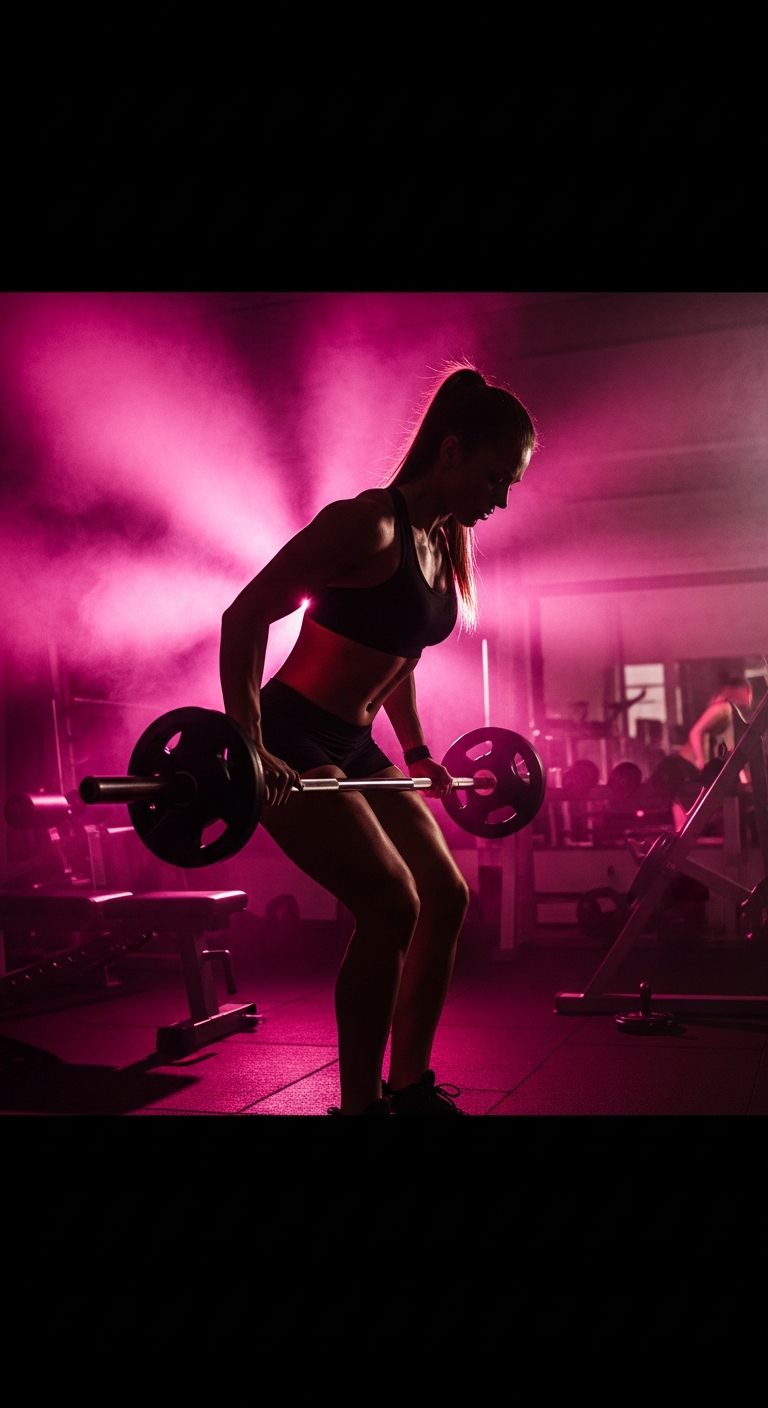
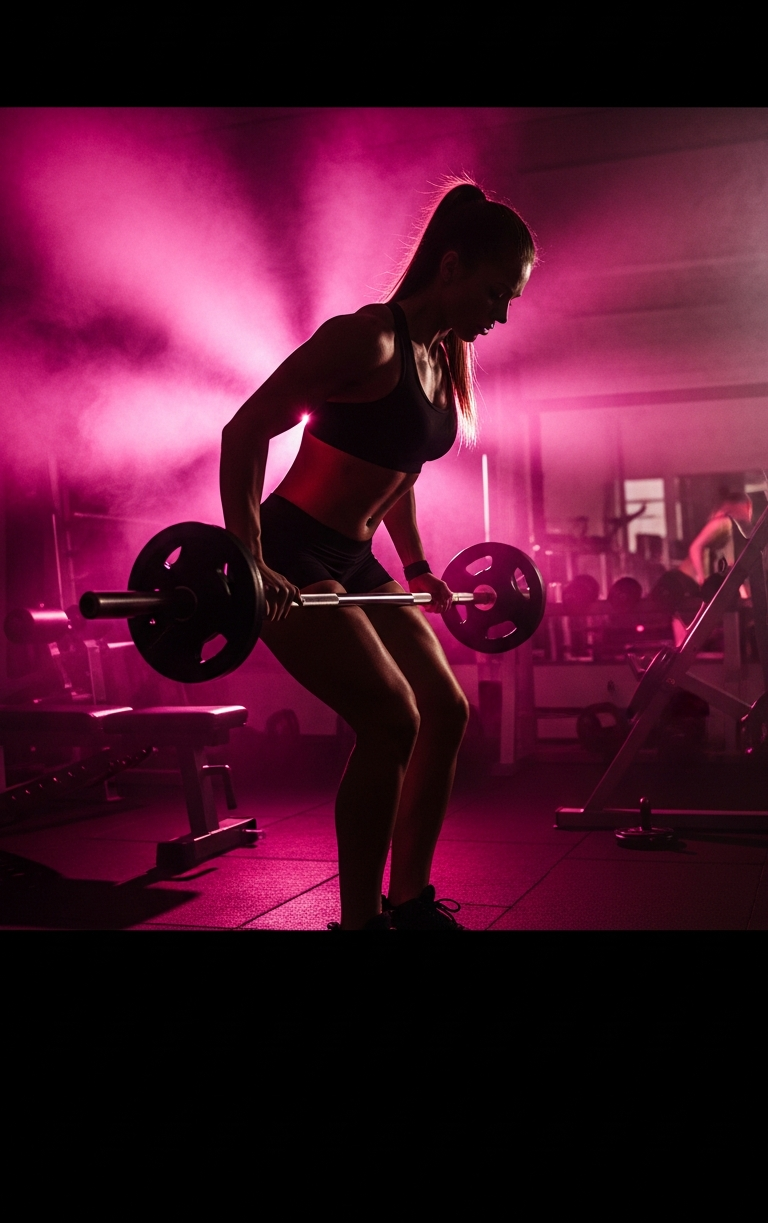
Remove distracting black area from top of hero image
Updates hero image and CSS to crop out the top black section and adjust styling for a cleaner mobile display.

Replit-Commit-Author: Agent
Replit-Commit-Session-Id: b4336954-ad50-43fa-b187-0b8c75e4061d
Replit-Commit-Checkpoint-Type: full_checkpoint
Replit-Commit-Event-Id: cb52fa3b-50b0-4569-a285-5950a8bb4eb3
Replit-Commit-Screenshot-Url: https://storage.googleapis.com/screenshot-production-us-central1/e3e8eb66-5f9c-4a45-9789-91197f69ff92/b4336954-ad50-43fa-b187-0b8c75e4061d/EEIU4SN
Replit-Helium-Checkpoint-Created: true

diff --git a/artifacts/gorogly-girls/src/index.css b/artifacts/gorogly-girls/src/index.css
@@ -1263,23 +1263,22 @@ h1, h2, h3, .display { font-family: 'Barlow Condensed', sans-serif; }
   .nav-links { display: none; }
   .hamburger { display: flex; }
 
-  /* ── MOBILE HERO: full-screen, no animation, no black gap ── */
+  /* ── MOBILE HERO ── */
   .hero {
-    padding-top: 0;
-    position: relative;
-    min-height: 100vh;
-    display: flex;
-    align-items: flex-end;
-    overflow: hidden;
-    background: #080608;
+    padding-top: 0 !important;
+    position: relative !important;
+    display: block !important;
+    height: 100svh !important;
+    height: 100vh !important;
+    min-height: 580px !important;
+    overflow: hidden !important;
+    background: #080608 !important;
   }
 
-  /* Full-screen background image — clips exactly to hero edges */
   .hero-mobile-bg {
     display: block !important;
     position: absolute !important;
     top: 0 !important; left: 0 !important;
-    right: 0 !important; bottom: 0 !important;
     width: 100% !important; height: 100% !important;
     margin: 0 !important; padding: 0 !important;
     border-radius: 0 !important;
@@ -1287,7 +1286,6 @@ h1, h2, h3, .display { font-family: 'Barlow Condensed', sans-serif; }
     z-index: 1 !important;
   }
 
-  /* Image: no animation, no transform, pure cover */
   .hero-mobile-bg-img {
     display: block !important;
     position: absolute !important;
@@ -1299,62 +1297,53 @@ h1, h2, h3, .display { font-family: 'Barlow Condensed', sans-serif; }
     transform: none !important;
   }
 
-  /* Overlay — transparent at top, deep at bottom for text readability */
   .hero-mobile-bg-overlay {
     background:
       linear-gradient(to bottom,
-        rgba(8,6,8,0.20) 0%,
-        rgba(8,6,8,0.05) 18%,
-        rgba(8,6,8,0.05) 42%,
+        rgba(8,6,8,0.18) 0%,
+        rgba(8,6,8,0.04) 20%,
+        rgba(8,6,8,0.04) 44%,
         rgba(8,6,8,0.55) 65%,
         rgba(8,6,8,0.92) 82%,
         rgba(8,6,8,1.00) 100%
       ) !important;
   }
 
-  /* Pink energy glow at bottom */
   .hero-mobile-energy {
     z-index: 5 !important;
     height: 45% !important;
-    background: radial-gradient(ellipse at 38% 100%, rgba(233,30,140,0.35) 0%, rgba(233,30,140,0.10) 42%, transparent 68%) !important;
+    background: radial-gradient(ellipse at 38% 100%, rgba(233,30,140,0.32) 0%, rgba(233,30,140,0.08) 42%, transparent 68%) !important;
   }
 
-  /* Dot grid subtle texture */
   .hero-dots {
     display: block !important;
+    position: absolute !important;
     z-index: 2 !important;
-    opacity: 0.25 !important;
-    animation: none;
+    opacity: 0.22 !important;
+    animation: none !important;
   }
 
-  /* Hide unused desktop background elements */
   .hero-bg { display: none !important; }
   .hero-nebula-1, .hero-nebula-2, .hero-nebula-3 { display: none !important; }
 
-  /* Content pinned to the bottom */
   .hero-content {
-    position: relative !important;
+    position: absolute !important;
+    bottom: 0 !important; left: 0 !important; right: 0 !important;
+    top: auto !important;
     z-index: 10 !important;
     display: flex !important;
     flex-direction: column !important;
-    justify-content: flex-end !important;
     align-items: flex-start !important;
-    grid-template-columns: 1fr !important;
     width: 100% !important;
-    min-height: 100vh !important;
+    min-height: unset !important;
     padding: 0 clamp(1.25rem, 6vw, 2rem) clamp(2.5rem, 8vh, 4rem) !important;
+    margin: 0 auto !important;
+    max-width: 1200px !important;
   }
 
   .hero-right { display: none !important; }
+  .hero-left { display: flex; flex-direction: column; gap: 1.1rem; width: 100%; }
 
-  .hero-left {
-    display: flex;
-    flex-direction: column;
-    gap: 1.1rem;
-    width: 100%;
-  }
-
-  /* Bold headline */
   .hero-line {
     font-size: clamp(4rem, 17vw, 6.5rem) !important;
     line-height: 0.95 !important;
@@ -1368,20 +1357,9 @@ h1, h2, h3, .display { font-family: 'Barlow Condensed', sans-serif; }
     -webkit-backdrop-filter: blur(8px);
   }
 
-  .hero-body {
-    max-width: 100%;
-    color: rgba(250,247,250,0.85);
-    font-size: 0.96rem;
-    line-height: 1.68;
-  }
+  .hero-body { max-width: 100%; color: rgba(250,247,250,0.85); font-size: 0.96rem; line-height: 1.68; }
+  .hero-trust { display: grid !important; grid-template-columns: 1fr 1fr !important; gap: 0.5rem !important; }
 
-  .hero-trust {
-    display: grid !important;
-    grid-template-columns: 1fr 1fr !important;
-    gap: 0.5rem !important;
-  }
-
-  /* Other layout fixes */
   .services-grid { grid-template-columns: 1fr; }
   .trainers-grid { grid-template-columns: repeat(2, 1fr); }
   .footer-grid { grid-template-columns: 1fr 1fr; }
